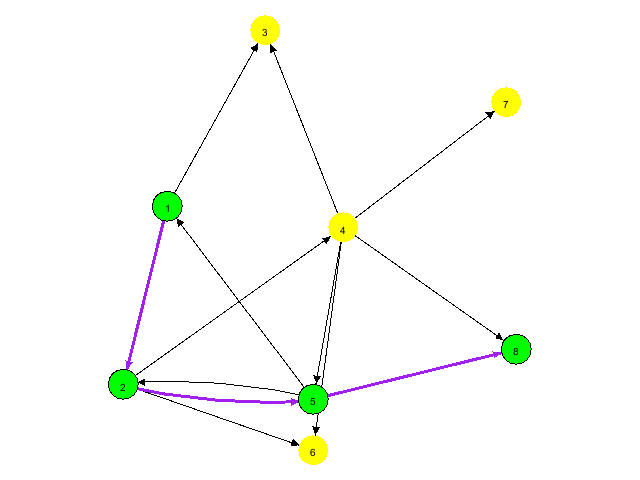
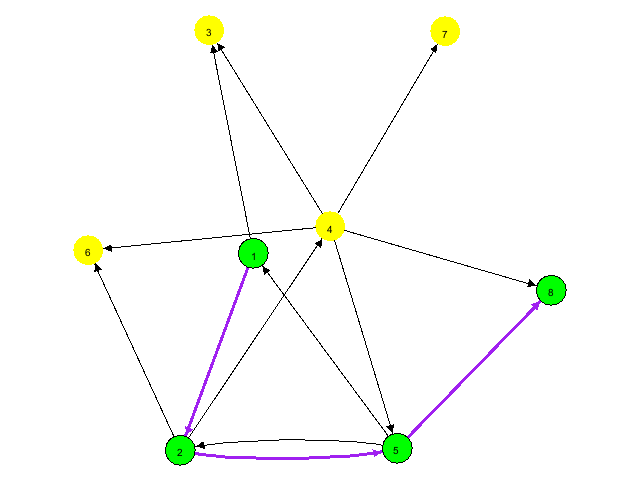
project

diff --git a/project/src/project/project.java b/project/src/project/project.java
@@ -41,6 +41,8 @@ import javax.swing.JFrame;
 import javax.swing.JLabel;
 import javax.swing.JOptionPane;
 import javax.swing.JPanel;
+import javax.swing.JScrollPane;
+import javax.swing.JTextArea;
 import javax.swing.JTextField;
 import javax.swing.SwingConstants;
 
@@ -77,7 +79,6 @@ public class project {
 	private static JFrame welcomeFrame;
 	private static JFrame frame = new JFrame();
 	private static JPanel buttonJPanel;
-	private static JPanel showPathPanel;
 	private static SwingViewer viewer;
 	private static JPanel view;
 	private static ArrayList<Integer> vertex = new ArrayList<Integer>();
@@ -223,7 +224,7 @@ public class project {
         frame.setForeground(Color.YELLOW);
         frame.setDefaultCloseOperation(JFrame.DISPOSE_ON_CLOSE);
         getView(frame);
-        
+        frame.getContentPane().add(view);
         homeButton.addActionListener(new ActionListener() {
 			
 			@Override
@@ -276,11 +277,18 @@ public class project {
 	/// bài 3
 	protected static void QuestionsPath() {
 		// TODO Auto-generated method stub
-		JFrame AllPathFrame = new JFrame(); // tạo 1 frame mới 
+		JFrame AllPathFrame = new JFrame("Bai3"); // tạo 1 frame mới 
 		AllPathFrame.setComponentOrientation(ComponentOrientation.RIGHT_TO_LEFT);
 		AllPathFrame.getContentPane().setLayout(new  GridBagLayout());
-		GridBagConstraints c = new GridBagConstraints();
-		GridBagConstraints cc = new GridBagConstraints();
+		GridBagConstraints c = new GridBagConstraints(); // gridbag of button
+		GridBagConstraints gc = new GridBagConstraints();// gridbag of graph
+		GridBagConstraints sc = new GridBagConstraints();// gridbag of scroll
+		
+		JScrollPane showPathScroll = new JScrollPane();
+		JTextArea pathTxt = new JTextArea();
+		showPathScroll.setViewportView(pathTxt);
+		
+		pathTxt.setText("Edge has passed:\n");
 		JPanel vPanel = new JPanel();
 		
 		
@@ -295,7 +303,7 @@ public class project {
 					public void run() {
 						try {
 							omw.clear();
-							showPathPanel.removeAll();
+							pathTxt.setText("Edge has passed:\n");
 							y1 = 0;
 							frame.setVisible(true);
 							AllPathFrame.dispose();
@@ -307,7 +315,7 @@ public class project {
 			}
 		});
 		
-		vPanel.add(btnNewButton);
+		
 		vPanel.add(clearButton);
 		vPanel.add(stopButton);
 		JButton[] vButtons = new JButton[max]; // tạo các button với vButtons[i] là đỉnh thứ i
@@ -317,30 +325,33 @@ public class project {
 		}
 		vPanel.setForeground(Color.GREEN);
 		
-        showPathPanel = new JPanel();
-        showPathPanel.setSize(400, 750);
+       
+        gc.fill = GridBagConstraints.BOTH; // mở rộng panel cho khít với khoảng trống với cả chiều rộng và chiều cao
+        gc.weightx = 0.5; // khoảng cách tương đối giữa các đối tượng
+		gc.gridx = 1; // tọa độ (x, y) = 1, 1
+		gc.gridy = 1;
+		gc.ipady = 750; // mở rộng theo chiều dọc cả trên và dưới 
+        gc.anchor = GridBagConstraints.EAST; // vị trí tương đối của panel trong tọa độ đó
         
-        cc.fill = GridBagConstraints.BOTH;
-        cc.weightx = 0.5;
-        cc.gridwidth = 2;
-		cc.gridheight = 8;
-		cc.gridx = 1;
-		cc.gridy = 0;
-        cc.anchor = GridBagConstraints.CENTER;
-        c.fill = GridBagConstraints.BOTH;
-		c.weightx = 0.5;
-		c.gridwidth = 2;
-		c.gridheight = 8;
+        sc.fill = GridBagConstraints.BOTH;
+        sc.weightx = 0.5;
+        sc.gridx = 0;
+        sc.gridy = 1;
+        sc.ipady = 750;
+        sc.anchor = GridBagConstraints.WEST;
+        
+        
+        c.weightx = 0.5;
 		c.gridx = 0;
-		c.gridy = 0;
+		c.gridy = 2;
 		
-        AllPathFrame.getContentPane().add(showPathPanel, c);
-        c.fill = GridBagConstraints.HORIZONTAL;
-        c.gridwidth = 2;
-		c.gridheight = 1;
-		c.gridx = 0;
-		c.gridy = 100;
+		
+		AllPathFrame.getContentPane().add(btnNewButton, c);
+		c.fill = GridBagConstraints.HORIZONTAL;
+		c.gridwidth = 2;
+		c.gridx = 1;
 		c.anchor = GridBagConstraints.PAGE_END;
+		AllPathFrame.getContentPane().add(showPathScroll, sc);
 		AllPathFrame.getContentPane().add(vPanel, c);
 		AllPathFrame.setExtendedState(JFrame.MAXIMIZED_BOTH); 
 		frame.setExtendedState(JFrame.MAXIMIZED_BOTH); 
@@ -349,13 +360,15 @@ public class project {
 		AllPathFrame.addWindowListener(new WindowAdapter() {
 			public void windowClosing(WindowEvent windowEvent) { // khi frame đóng, khôi phục lại đồ thị như ban đầu
 				AllPathFrame.dispose();
+				frame.setVisible(true);
+				pathTxt.setText("Edge has passed:\n");
 				omw.clear();
 			}
 		});
 
 		
 		getView(AllPathFrame);
-		
+		AllPathFrame.getContentPane().add(view, gc);
 
 		for(int i = 0; i < max; ++i) {
 			vButtons[i].addActionListener(new ActionListener() {
@@ -386,11 +399,14 @@ public class project {
 										vPanel.remove(vButtons[j]);
 									}
 								}
+								vPanel.repaint();
+								String a = omw.getLabel();
+								pathTxt.setText(pathTxt.getText() + a);
 								AllPathFrame.getContentPane().add(vPanel, c);
 								AllPathFrame.getContentPane().remove(view);
 								view = omw.getViewer();
 								
-								AllPathFrame.getContentPane().add(view, cc);
+								AllPathFrame.getContentPane().add(view, gc);
 								AllPathFrame.pack();
 								AllPathFrame.setExtendedState(JFrame.MAXIMIZED_BOTH); 
 								AllPathFrame.setVisible(true);
@@ -413,7 +429,6 @@ public class project {
 			public void actionPerformed(ActionEvent e) {
 				// TODO Auto-generated method stub
 				omw.clear();
-				showPathPanel.removeAll();
 				y1 = 0;
 				for(int j = 0; j < max; ++j) {
 					if(vertex.contains(j+1)) {
@@ -421,12 +436,12 @@ public class project {
 					}
 					vPanel.add(vButtons[j]);
 				}
-				
+				pathTxt.setText("Edge has passed:\n");
 				vPanel.repaint();
 				AllPathFrame.getContentPane().add(vPanel, c);
 				AllPathFrame.getContentPane().remove(view);
 				view = omw.getViewer();
-				AllPathFrame.add(view, cc);
+				AllPathFrame.add(view, gc);
 				AllPathFrame.pack();
 				AllPathFrame.setExtendedState(JFrame.MAXIMIZED_BOTH); 
 				AllPathFrame.setVisible(true);
@@ -449,7 +464,7 @@ public class project {
 				AllPathFrame.getContentPane().add(vPanel, c);
 				AllPathFrame.getContentPane().remove(view);
 				view = omw.getViewer();
-				AllPathFrame.add(view, cc);
+				AllPathFrame.add(view, gc);
 				AllPathFrame.pack();
 				AllPathFrame.setExtendedState(JFrame.MAXIMIZED_BOTH); 
 				AllPathFrame.setVisible(true);
@@ -510,7 +525,7 @@ public class project {
 		AllPathFrame.setVisible(true);
 		frame.dispose();
 		getView(AllPathFrame);
-		
+		AllPathFrame.getContentPane().add(view);
 		c[0] = 0;
 		for(int i = 0; i < max; ++i) {
 			c[i + 1] = 0;
@@ -668,7 +683,7 @@ public class project {
         viewer.enableAutoLayout();
         view = (JPanel) viewer.addDefaultView(false);
         view.setSize(new Dimension(500, 750));
-        frame.getContentPane().add(view);
+        
     }
 	
 	

diff --git a/project/src/project/OnMyWayabc.java b/project/src/project/OnMyWayabc.java
@@ -128,11 +128,8 @@ public class OnMyWayabc extends GraphLinkedList{
 				v[place].setAttribute("ui.style", "shape:circle;fill-color: green;size: 30px;");
 				v[place].setAttribute("ui.label", Integer.toString(place));
 	    		Edge edge=graph.getEdge(tempEdgeString);
-
                 count.put(tempEdgeString,count.get(tempEdgeString)+1);
-                System.out.println(count.get(tempEdgeString));
                 if (count.get(tempEdgeString) > 1) edge.setAttribute("ui.label", count.get(tempEdgeString));
-			    System.out.println(prePlace + "->" + place);    
 	    		edge.setAttribute("ui.style", "fill-color: purple; size: 3px;");
 		}
 	}
@@ -175,10 +172,10 @@ public class OnMyWayabc extends GraphLinkedList{
 	public LinkedList<Integer> getPlaceAdj(){
 		return adjLists[place]; // nhận mảng của các phần tử mà đỉnh place có thể đi
 	}
-	public String getLabel() {
+	public String getLabel() { // hiện thị đường đi vào văn bản và số lần đã đi qua cạnh đó
 		String a = "";
 		if(stack.size() > 1) 
-			a = prePlace + "->" + place;
+			a = prePlace + "->" + place + " (" + count.get(prePlace + " " + place) + ")\n";
 		return a;
 	}
 }

diff --git a/project/src/project/jScrollPaneDemo.java b/project/src/project/jScrollPaneDemo.java
@@ -1,0 +1,28 @@
+package project;
+
+import javax.swing.*;
+import java.awt.*;
+public class jScrollPaneDemo {
+    
+    public static void main(String[] args) {
+        JFrame jFrame = new JFrame("Scroll Pane Example");
+        jFrame.setSize(500, 300);
+        jFrame.setDefaultCloseOperation(JFrame.EXIT_ON_CLOSE);
+        jFrame.setLayout(new BorderLayout());
+        JScrollPane pane = new JScrollPane();
+        JTextArea txtMain = new JTextArea();
+        pane.setViewportView(txtMain);
+        jFrame.add(pane, BorderLayout.CENTER);
+        JButton btnAddText = new JButton("Add Text");
+        btnAddText
+                .addActionListener(e -> {
+                    txtMain.setText(txtMain.getText()
+                            + "Example text Example text Example text Example textExample textExample textExample text\n");
+                    String text = txtMain.getText();
+
+                });
+        jFrame.add(btnAddText, BorderLayout.SOUTH);
+        jFrame.setLocationRelativeTo(null);
+        jFrame.setVisible(true);
+    }
+}
